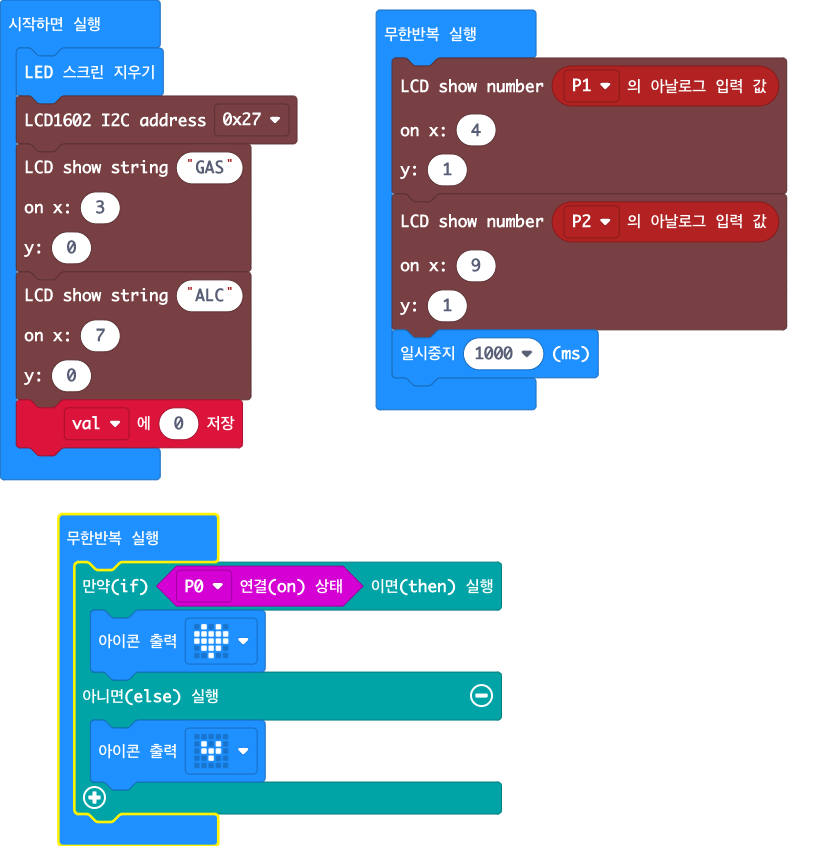
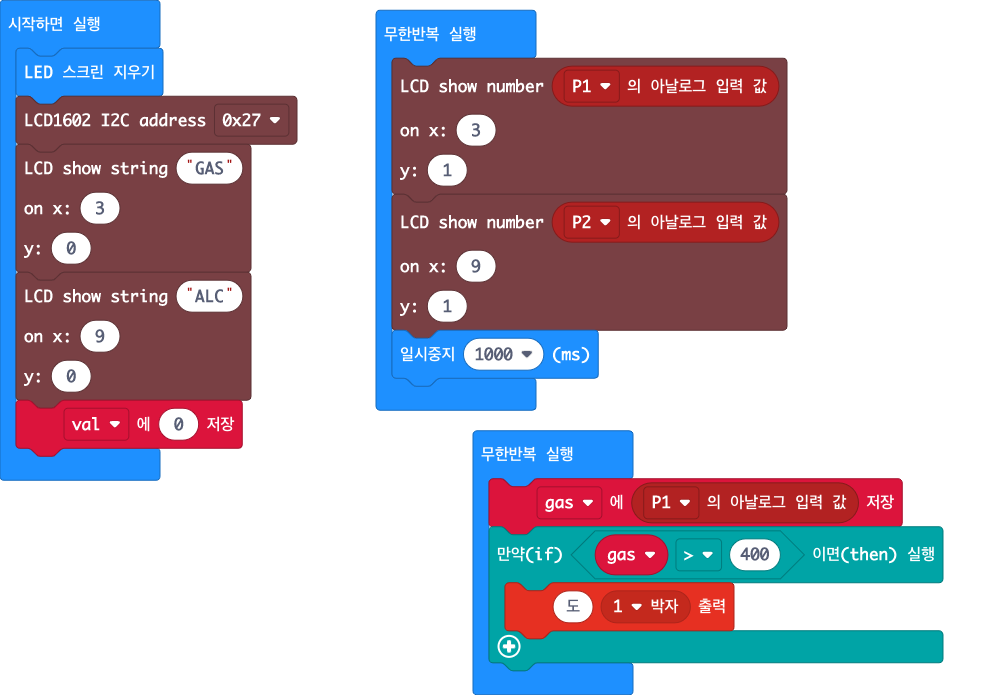
main.blocks, main.ts 업데이트하기

diff --git a/main.ts b/main.ts
@@ -1,3 +1,4 @@
+let gas = 0
 basic.clearScreen()
 lcd1602.setAddress(
 lcd1602.I2C_ADDR.addr1
@@ -9,14 +10,14 @@ lcd1602.putString(
 )
 lcd1602.putString(
 "ALC",
-7,
+9,
 0
 )
 let val = 0
 basic.forever(function () {
     lcd1602.putNumber(
     pins.analogReadPin(AnalogPin.P1),
-    4,
+    3,
     1
     )
     lcd1602.putNumber(
@@ -27,9 +28,8 @@ basic.forever(function () {
     basic.pause(1000)
 })
 basic.forever(function () {
-    if (input.pinIsPressed(TouchPin.P0)) {
-        basic.showIcon(IconNames.Heart)
-    } else {
-        basic.showIcon(IconNames.SmallHeart)
+    gas = pins.analogReadPin(AnalogPin.P1)
+    if (gas > 400) {
+        music.playTone(262, music.beat(BeatFraction.Whole))
     }
 })
